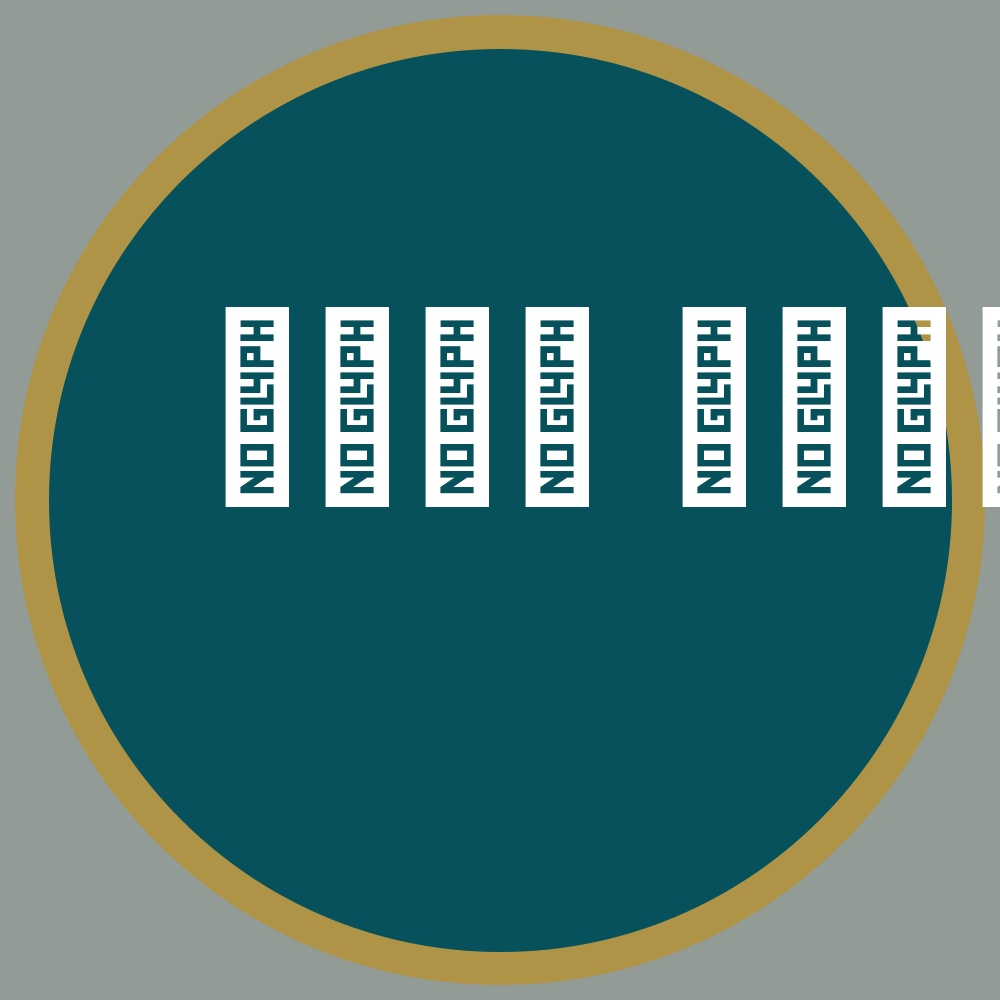
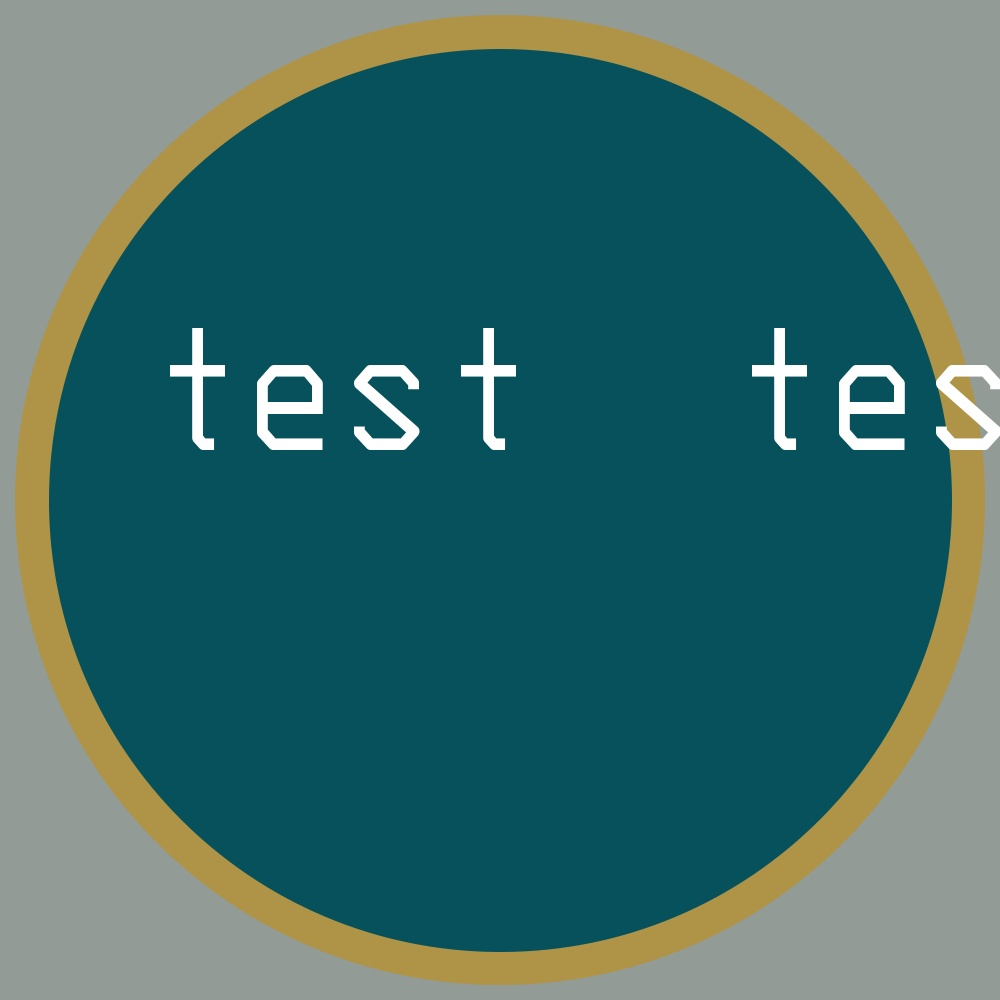
line retun you stupid motherfucker

Changed region(s): [[0.155, 0.31, 0.589, 0.527], [0.682, 0.279, 1.0, 0.527]]

diff --git a/main.py b/main.py
@@ -36,10 +36,7 @@ def TextToIcon(Chunks, Text, TemplateImage, Font, FilePath):
     result_o = np.array(im_p)
     cv2.imwrite(FilePath, result_o)
 
-TextToIcon(20, """
-test
-test
-""", "Template.png","fonts/Huji-Bold.otf","pfp.jpg")
+TextToIcon(20, """test\r\ntest""", "Template.png","fonts/3270SemiCondensed-Regular.ttf","pfp.jpg")
 
 
 
